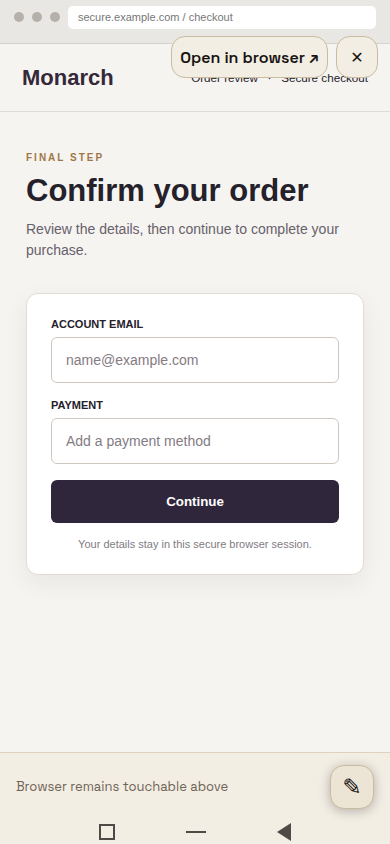
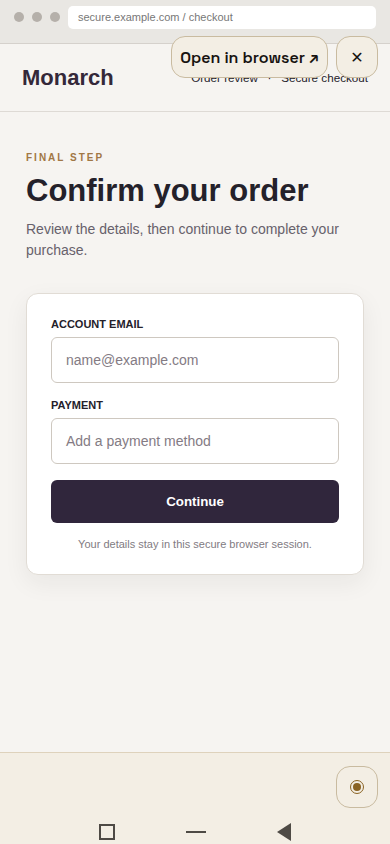
Redraw viewer conversation as expanding attention pill

Changed region(s): [[0.0308, 0.9242, 0.5846, 0.955], [0.8308, 0.8934, 0.9846, 0.9858]]

diff --git a/.lavish/viewer-composer/frame.tsx b/.lavish/viewer-composer/frame.tsx
@@ -35,7 +35,6 @@ sheet.textContent = `@font-face{font-family:SpaceGrotesk-Regular;src:url(${regul
 body{background:${theme.bgBase};color:${theme.textPrimary};font-family:SpaceGrotesk-Regular,sans-serif}
 button{font:inherit;cursor:pointer}.phone{height:100%;display:flex;flex-direction:column;background:${theme.bgBase};position:relative}
 .status{height:24px;flex:none;position:absolute;top:0;left:0;right:0;z-index:5;display:flex;justify-content:space-between;align-items:center;padding:0 16px;color:${theme.textPrimary};font:11px SpaceGrotesk-SemiBold;pointer-events:none}
-.status.computer{color:#716b70}
 .viewer-area{flex:1;min-height:0;position:relative;overflow:hidden}.viewer-area>div:first-child{height:100%}
 .viewer-area .mock-artifact{position:absolute;top:85px;left:0;right:0;bottom:0;background:#f3eee4;color:#171310;overflow:hidden;padding:28px 21px;font-family:SpaceGrotesk-Regular}
 .mock-artifact .eyebrow{font:10px IBMPlexMono-Regular;letter-spacing:2px;color:#8a6323;text-transform:uppercase}
@@ -44,15 +43,19 @@ button{font:inherit;cursor:pointer}.phone{height:100%;display:flex;flex-directio
 .mock-artifact .mock-card b{display:block;font:10px IBMPlexMono-Regular;letter-spacing:1px;text-transform:uppercase;margin:0 0 9px}.mock-artifact .field{height:47px;border:1px solid #c9bba0;border-radius:8px;padding:12px 13px;color:#8b7f6e;margin-bottom:18px;font-size:14px}.mock-artifact .primary{height:45px;border-radius:8px;background:#171310;color:#f3eee4;display:grid;place-items:center;font:16px SpaceGrotesk-SemiBold}.mock-artifact .hint{font:13px/19px SpaceGrotesk-Regular;color:#8b7f6e;text-align:center;margin-top:15px}
 .dock{height:68px;flex:none;position:relative;background:${theme.bgBase};border-top:1px solid ${theme.border};display:flex;align-items:center;justify-content:flex-end;padding:0 16px}
 .nav{height:24px;flex:none;background:${theme.bgBase};display:flex;align-items:center;justify-content:space-around;padding:0 64px}.nav span{width:20px;height:2px;background:${theme.textPrimary};opacity:.75}.nav span:first-child{width:16px;height:16px;border:2px solid ${theme.textPrimary};background:none}.nav span:last-child{width:0;height:0;border-top:9px solid transparent;border-bottom:9px solid transparent;border-right:14px solid ${theme.textPrimary};background:none}
-.summon{width:44px;height:44px;border:1px solid ${theme.borderStrong};border-radius:14px;background:${theme.bgRaised};color:${theme.textPrimary};font:23px SpaceGrotesk-Regular;display:grid;place-items:center;box-shadow:0 2px 12px #0004}.dock-note{margin-right:auto;font:13px SpaceGrotesk-Regular;color:${theme.ledgerQuiet}}
-.shade{position:absolute;inset:0;background:linear-gradient(180deg,transparent 48%,#14091a55 100%);pointer-events:none}
-.composer-sheet{position:absolute;left:0;right:0;bottom:24px;z-index:10;background:${theme.bgBase};border-top:1px solid ${theme.borderStrong};border-radius:16px 16px 0 0;padding:12px 16px 16px;box-shadow:0 -16px 42px #0006}
-.sheet-head{display:flex;align-items:center;justify-content:space-between;color:${theme.ledgerQuiet};font:13px SpaceGrotesk-Regular;margin-bottom:13px}.sheet-head strong{color:${theme.textPrimary};font:13px SpaceGrotesk-SemiBold}.sheet-head button,.transcript-head button{border:0;background:none;color:${theme.ledgerQuiet};font-size:20px;padding:2px 6px}
-.context{display:flex;gap:9px;align-items:center;min-height:42px;border:1px solid ${theme.border};border-radius:10px;background:${theme.bgRaised};padding:7px 10px;margin-bottom:10px;color:${theme.textSecondary};font:13px SpaceGrotesk-Regular}.context .icon{color:${theme.accent};font-size:17px}.context .label{min-width:0;overflow:hidden;text-overflow:ellipsis;white-space:nowrap}.context small{font:10px IBMPlexMono-Regular;color:${theme.ledgerQuiet};display:block;margin-bottom:2px;text-transform:uppercase;letter-spacing:.6px}
-.composer{min-height:44px;border-radius:10px;border:1px solid ${theme.border};background:${theme.bgRaised};display:flex;align-items:center;padding:8px;gap:10px;color:${theme.textPrimary};font:16px SpaceGrotesk-Regular}.composer .plus{font-size:25px;line-height:26px}.composer .entry{flex:1;line-height:26px}.composer .mic{width:26px;height:26px;display:grid;place-items:center;font-size:22px}.composer .send{width:26px;height:26px;display:grid;place-items:center;font-size:22px}
-.sheet-footer{font:11px IBMPlexMono-Regular;color:${theme.ledgerQuiet};margin-top:10px}.ticker{position:absolute;left:16px;right:16px;bottom:93px;z-index:8;padding:10px 13px;border:1px solid #f0f0f322;border-radius:12px;background:#190e2190;backdrop-filter:blur(8px);color:${theme.textPrimary};box-shadow:0 8px 28px #0002}.ticker .byline{font:11px IBMPlexMono-Regular;color:${theme.ledgerQuiet};margin-bottom:4px}.ticker .reply{font:13px/19px SpaceGrotesk-Regular;opacity:.88}.ticker .expand{font:11px IBMPlexMono-Regular;color:${theme.accent};margin-top:5px}
-.transcript-sheet{position:absolute;left:0;right:0;bottom:24px;height:350px;z-index:10;background:${theme.bgBase};border-top:1px solid ${theme.borderStrong};border-radius:16px 16px 0 0;padding:16px 18px;box-shadow:0 -16px 42px #0007}.transcript-head{display:flex;align-items:center;justify-content:space-between;border-bottom:1px solid ${theme.border};padding-bottom:12px;font:16px SpaceGrotesk-SemiBold}.msg{margin-top:16px;font:14px/21px SpaceGrotesk-Regular}.msg .who{font:11px IBMPlexMono-Regular;color:${theme.ledgerQuiet};margin-bottom:5px}.msg p{margin:0}.sent-context{display:flex;gap:8px;align-items:center;margin-top:8px;color:${theme.ledgerQuiet};border:1px solid ${theme.border};border-radius:8px;width:max-content;max-width:100%;padding:5px 8px;font:11px IBMPlexMono-Regular}.sent-context .thumb{width:23px;height:21px;background:#f3eee4;border-radius:3px;border:1px solid #c9bba0}.sent-context .thumb.computer{background:#f3eee4 url('/computer-idle.png') center top / cover}.transcript-compose{position:absolute;bottom:14px;left:16px;right:16px;color:${theme.ledgerQuiet};font:13px SpaceGrotesk-Regular;border:1px solid ${theme.border};border-radius:10px;padding:11px}
-.desktop{height:100%;display:flex}.rail{width:70px;border-right:1px solid ${theme.border};padding:18px;color:${theme.accent};font-size:28px}.rooms{width:260px;border-right:1px solid ${theme.border};padding:24px 18px}.rooms .word{font:24px SpaceGrotesk-SemiBold;margin-bottom:30px}.room-item{background:${theme.bgRaised};border-radius:11px;padding:13px;margin-bottom:8px;font-size:14px}.room-main{flex:1;min-width:0;border-right:1px solid ${theme.border};padding:26px 24px}.room-main h2{font:22px SpaceGrotesk-SemiBold;border-bottom:1px solid ${theme.border};padding-bottom:20px;margin:0}.room-main .body{max-width:520px;margin:38px auto;font:16px/23px SpaceGrotesk-Regular}.room-main .agent{font:13px SpaceGrotesk-Regular;color:${theme.ledgerQuiet};margin-bottom:8px}.desktop-pane{width:400px;display:flex;flex-direction:column;position:relative}.pane-head{height:55px;padding:17px 18px;border-bottom:1px solid ${theme.border};font:15px SpaceGrotesk-SemiBold}.desktop-pane .viewer-area{height:calc(100% - 123px);flex:none}.desktop-pane .dock{height:68px}.desktop-pane .composer-sheet{bottom:0}.desktop-pane .ticker{bottom:78px}
+.desktop{height:100%;display:flex}.rail{width:70px;border-right:1px solid ${theme.border};padding:18px;color:${theme.accent};font-size:28px}.rooms{width:260px;border-right:1px solid ${theme.border};padding:24px 18px}.rooms .word{font:24px SpaceGrotesk-SemiBold;margin-bottom:30px}.room-item{background:${theme.bgRaised};border-radius:11px;padding:13px;margin-bottom:8px;font-size:14px}.room-main{flex:1;min-width:0;border-right:1px solid ${theme.border};padding:26px 24px}.room-main h2{font:22px SpaceGrotesk-SemiBold;border-bottom:1px solid ${theme.border};padding-bottom:20px;margin:0}.room-main .body{max-width:520px;margin:38px auto;font:16px/23px SpaceGrotesk-Regular}.room-main .agent{font:13px SpaceGrotesk-Regular;color:${theme.ledgerQuiet};margin-bottom:8px}.desktop-pane{width:400px;display:flex;flex-direction:column;position:relative}.pane-head{height:55px;padding:17px 18px;border-bottom:1px solid ${theme.border};font:15px SpaceGrotesk-SemiBold}.desktop-pane .viewer-area{height:calc(100% - 123px);flex:none}.desktop-pane .dock{height:68px}
+/* The 42 × 42 viewer control becomes the left cap of one composer pill. */
+.v2-dock{justify-content:flex-end;padding:0 12px;border-top:1px solid ${theme.border}}
+.attention-button{width:42px;height:42px;flex:none;border:1px solid ${theme.borderStrong};border-radius:14px;background:${theme.bgBase};display:grid;place-items:center;color:${theme.accent};padding:0}
+.attention-mark{width:14px;height:14px;border:1px solid ${theme.accent};border-radius:7px;display:grid;place-items:center}.attention-mark span{width:8px;height:8px;border-radius:4px;background:${theme.accent}}
+.expanding-pill{height:44px;width:100%;border:1px solid ${theme.borderStrong};border-radius:22px;background:${theme.bgRaised};display:flex;align-items:center;overflow:hidden;box-shadow:0 2px 12px #0003;transition:width 240ms ease}
+.expanding-pill.partway{width:204px}.expanding-pill .attention-button{border:0;border-right:1px solid ${theme.border};background:transparent;border-radius:0 14px 14px 0}
+.pill-copy{min-width:0;flex:1;border:0;outline:0;background:none;color:${theme.textPrimary};font:16px/23px SpaceGrotesk-Regular;padding:0 11px}.pill-copy::placeholder{color:${theme.ledgerQuiet}}
+.pill-trailing{width:42px;height:42px;border:0;background:transparent;color:${theme.textPrimary};display:grid;place-items:center;font:22px SpaceGrotesk-Regular;padding:0}
+.voice-copy{display:flex;align-items:center;gap:8px;white-space:nowrap;color:${theme.textSecondary};font:13px SpaceGrotesk-Regular}.waveform{color:${theme.accent};font:16px IBMPlexMono-Regular;letter-spacing:-2px}
+.floating-transcript{position:absolute;z-index:8;left:16px;right:16px;bottom:88px;min-height:104px;border:1px solid ${theme.borderStrong};border-radius:12px;background:${new URLSearchParams(location.search).get('theme') === 'bone' ? '#ece4d5db' : '#190e21bf'};backdrop-filter:blur(12px);padding:12px 14px;box-shadow:0 8px 24px #0002}
+.floating-transcript.arriving{opacity:.42;transform:translateY(4px)}.transcript-label{font:11px IBMPlexMono-Regular;color:${theme.ledgerQuiet};margin-bottom:8px}.transcript-line{font:13px/19px SpaceGrotesk-Regular;color:${theme.textPrimary};margin-top:5px}.transcript-line span{font:11px IBMPlexMono-Regular;color:${theme.accent};margin-right:6px}
+.desktop-pane .floating-transcript{bottom:60px}.desktop-pane .v2-dock{height:68px}
 `;
 document.head.appendChild(sheet);
 
@@ -63,27 +66,58 @@ function Viewer() {
     {!isComputer && <div className="mock-artifact"><div className="eyebrow">MONARCH / CHECKOUT</div><h1>Almost there.</h1><p>Review your details and finish your order.</p><div className="mock-card"><b>Contact</b><div className="field">Email address</div><b>Payment</b><div className="field">Card number</div><div className="primary">Continue</div><div className="hint">A calm, secure final step.</div></div></div>}
   </div>;
 }
-function Context({ computer = isComputer }: { computer?: boolean }) {
-  return <div className="context"><span className="icon">{computer ? '▣' : '◇'}</span><span className="label"><small>Looking at now · attached automatically</small>{computer ? 'Checkout · Chrome · screen snapshot' : 'Checkout flow · mock'}</span></div>;
+type DockStage = 'collapsed' | 'expanding' | 'typing' | 'voice' | 'reply' | 'collapsed-again';
+const queryStage = (frame.split('-').slice(1).join('-') || 'collapsed') as DockStage;
+
+/** The mark matches ConversationRow's 14 px needsRing and 8 px brass dot. */
+function AttentionMark() {
+  return <span className="attention-mark"><span /></span>;
 }
-function ComposerSheet() {
-  return <div className="composer-sheet"><div className="sheet-head"><strong>Message Moth</strong><button aria-label="Dismiss composer">×</button></div><Context /><div className="composer"><span className="plus">＋</span><span className="entry">{isComputer ? 'What do I do on this screen?' : 'Message about this mock'}</span>{isComputer ? <span className="send">↑</span> : <span className="mic"><svg width="20" height="20" viewBox="0 0 20 20" fill="none" stroke="currentColor" strokeWidth="1.6" strokeLinecap="round"><rect x="7.5" y="2" width="5" height="9.5" rx="2.5" /><path d="M4.5 9.5a5.5 5.5 0 0 0 11 0" /><path d="M10 15v3" /></svg></span>}</div><div className="sheet-footer">{isComputer ? 'Voice returns when the field is empty' : 'Tap the mic to dictate · send tucks the composer away'}</div></div>;
+
+function RecentTranscript({ stage, computer }: { stage: DockStage; computer: boolean }) {
+  if (stage === 'collapsed' || stage === 'collapsed-again') return null;
+  const reply = stage === 'reply';
+  return <div className={`floating-transcript ${stage === 'expanding' ? 'arriving' : ''}`}>
+    <div className="transcript-label">Recent conversation · Moth</div>
+    {reply ? <>
+      <div className="transcript-line"><span>You</span> {computer ? 'What do I do on this screen?' : 'Could we simplify this step?'}</div>
+      <div className="transcript-line"><span>Moth</span> {computer ? 'Use the test card, then tap Continue. I’ll watch for the next screen.' : 'Yes. I’d collapse payment details until the buyer chooses Continue.'}</div>
+    </> : <div className="transcript-line"><span>Moth</span> {computer ? 'I reached the checkout screen. Ask me about this step.' : 'I’ve opened the checkout mock. Tell me what to change.'}</div>}
+  </div>;
 }
-function Dock() {
-  return <div className="dock"><span className="dock-note">{isComputer ? 'Browser remains touchable above' : 'Viewing artifact'}</span><button className="summon" aria-label="Message agent">✎</button></div>;
+
+function ConversationDock({ stage, computer, onStage }: { stage: DockStage; computer: boolean; onStage: (stage: DockStage) => void }) {
+  const collapsed = stage === 'collapsed' || stage === 'collapsed-again';
+  const voice = stage === 'voice';
+  return <div className="dock v2-dock">
+    {collapsed ? <button className="attention-button" aria-label="Talk to Moth" onClick={() => onStage('expanding')}><AttentionMark /></button> :
+      <div className={`expanding-pill ${stage === 'expanding' ? 'partway' : ''}`}>
+        <button className="attention-button in-pill" aria-label="Collapse conversation" onClick={() => onStage('collapsed-again')}><AttentionMark /></button>
+        {voice ? <div className="pill-copy voice-copy"><span className="waveform">▂ ▅ ▃ ▇ ▄ ▆ ▂</span><span>Listening…</span></div> :
+          <input className="pill-copy" aria-label="Message Moth" placeholder="Ask Moth…" defaultValue={stage === 'typing' ? (computer ? 'What do I do on this screen?' : 'Could we simplify this step?') : ''} onFocus={() => onStage('typing')} />}
+        <button className="pill-trailing" aria-label={voice ? 'Send voice message' : stage === 'typing' ? 'Send message' : 'Start voice message'} onClick={() => onStage(stage === 'typing' || voice ? 'reply' : 'voice')}>
+          {stage === 'typing' || voice ? '↑' : <svg width="20" height="20" viewBox="0 0 20 20" fill="none" stroke="currentColor" strokeWidth="1.6" strokeLinecap="round"><rect x="7.5" y="2" width="5" height="9.5" rx="2.5" /><path d="M4.5 9.5a5.5 5.5 0 0 0 11 0" /><path d="M10 15v3" /></svg>}
+        </button>
+      </div>}
+  </div>;
 }
-function Ticker() {
-  return <div className="ticker"><div className="byline">Moth · just now</div><div className="reply">Use the test card, then tap Continue. I’ll watch for the next screen.</div><div className="expand">Tap to read recent conversation ↑</div></div>;
-}
-function Transcript() {
-  return <div className="transcript-sheet"><div className="transcript-head">Recent conversation <button aria-label="Close transcript">×</button></div><div className="msg"><div className="who">You · 9:42</div><p>{isComputer ? 'What do I do on this screen?' : 'Could we simplify this step?'}</p><div className="sent-context"><span className={`thumb ${isComputer ? 'computer' : ''}`} />{isComputer ? 'Checkout · Chrome · snapshot' : 'Checkout flow · mock'}</div></div><div className="msg"><div className="who">Moth · 9:42</div><p>{isComputer ? 'Use the test card, then tap Continue. I’ll watch for the next screen.' : 'Yes. I’d collapse the payment details until the buyer chooses Continue.'}</p></div><div className="transcript-compose">＋ &nbsp; Message Moth <span style={{ float: 'right' }}>♩</span></div></div>;
-}
+
 function Phone() {
-  return <div className="phone">{!isComputer && <div className="status"><span>9:41</span><span>◆ ▰</span></div>}<Viewer />{frame === 'computer-ticker' && <Ticker />}{frame === 'expanded-transcript' || frame.includes('sent-context') ? <Transcript /> : null}<Dock /><div className="nav"><span /><span /><span /></div>{frame.endsWith('composer') && <><div className="shade" /><ComposerSheet /></>}</div>;
+  const [stage, setStage] = React.useState<DockStage>(queryStage);
+  return <div className="phone">{!isComputer && <div className="status"><span>9:41</span><span>◆ ▰</span></div>}
+    <Viewer /><RecentTranscript stage={stage} computer={isComputer} /><ConversationDock stage={stage} computer={isComputer} onStage={setStage} />
+    <div className="nav"><span /><span /><span /></div>
+  </div>;
 }
+
 function Desktop() {
-  return <div className="desktop"><div className="rail">✦</div><div className="rooms"><div className="word">beeline</div><div className="room-item">⌕ &nbsp; Search</div><div className="room-item">✦ &nbsp; Design Room</div><div className="room-item"># &nbsp; General</div></div><div className="room-main"><h2>Design Room</h2><div className="body"><div className="agent">Moth · agent</div>I reached the sign in step. The browser is ready for you to finish it.</div></div><div className="desktop-pane"><div className="pane-head">Browser</div><Viewer /><Dock /><ComposerSheet /></div></div>;
+  const [stage, setStage] = React.useState<DockStage>(queryStage);
+  return <div className="desktop"><div className="rail">✦</div><div className="rooms"><div className="word">beeline</div><div className="room-item">⌕ &nbsp; Search</div><div className="room-item">✦ &nbsp; Design Room</div><div className="room-item"># &nbsp; General</div></div>
+    <div className="room-main"><h2>Design Room</h2><div className="body"><div className="agent">Moth · agent</div>I reached the sign in step. The browser is ready for you to finish it.</div></div>
+    <div className="desktop-pane"><div className="pane-head">Browser</div><Viewer /><RecentTranscript stage={stage} computer /><ConversationDock stage={stage} computer onStage={setStage} /></div>
+  </div>;
 }
+
 async function main() {
   await Promise.all(['SpaceGrotesk-Regular', 'SpaceGrotesk-Medium', 'SpaceGrotesk-SemiBold', 'IBMPlexMono-Regular'].map((family) => document.fonts.load(`16px ${family}`)));
   createRoot(document.getElementById('root')!).render(desktop ? <Desktop /> : <Phone />);

diff --git a/.lavish/viewer-composer/board.html b/.lavish/viewer-composer/board.html
@@ -3,7 +3,7 @@
 <head>
   <meta charset="utf-8">
   <meta name="viewport" content="width=device-width, initial-scale=1">
-  <title>Beeline viewer composer · approval board</title>
+  <title>Beeline viewer conversation · redesign approval board</title>
   <style>
     @font-face { font-family: SpaceGrotesk; src: url(SpaceGrotesk-Regular.ttf); }
     @font-face { font-family: SpaceGrotesk; src: url(SpaceGrotesk-SemiBold.ttf); font-weight: 600; }
@@ -16,11 +16,11 @@
     .lead { max-width: 950px; color: #c9c9d1; font-size: 16px; line-height: 1.5; margin: 0; }
     .notes { display: flex; flex-wrap: wrap; gap: 10px; margin: 24px 0 34px; }
     .notes span { border: 1px solid #3b3048; border-radius: 8px; padding: 8px 11px; color: #c9c9d1; font-size: 13px; }
-    h2 { font-size: 20px; margin: 34px 0 16px; font-weight: 600; }
+    h2 { font-size: 20px; margin: 38px 0 16px; font-weight: 600; }
     .grid { display: grid; grid-template-columns: repeat(3, minmax(0, 1fr)); gap: 20px; }
     figure { margin: 0; background: #190e21; border: 1px solid #3b3048; border-radius: 14px; padding: 15px; min-width: 0; }
     figure img { display: block; width: 100%; max-width: 390px; height: auto; margin: 0 auto; border: 1px solid #3b3048; }
-    figcaption { margin: 0 0 12px; min-height: 60px; }
+    figcaption { margin: 0 0 12px; min-height: 57px; }
     figcaption strong { display: block; font-size: 16px; margin-bottom: 4px; }
     figcaption span { color: #90909b; font-size: 13px; line-height: 1.4; }
     .wide img { max-width: none; }
@@ -32,29 +32,37 @@
 </head>
 <body>
   <header>
-    <div class="kicker">Decision mock · viewer conversation</div>
-    <h1>Talk to Moth without leaving what you’re viewing</h1>
-    <p class="lead">A 44 px rounded control sits in its own strip above Android’s three-button navigation bar. The regular composer slides up over either viewer, keeping voice available. A sent message carries the artifact title or a browser snapshot. The agent’s latest reply arrives as a quiet temporary ticker; tapping it opens recent conversation.</p>
-    <div class="notes"><span>390 × 844 phone</span><span>1440 × 900 desktop</span><span>Obsidian shell + Bone mock and theme</span><span>Browser taps remain in the stream above the control strip</span></div>
+    <div class="kicker">Decision mock 2 · viewer conversation</div>
+    <h1>One attention button becomes the composer</h1>
+    <p class="lead">A 42 × 42 rounded button sits above Android’s three-button navigation bar, outside the live browser stream. Its mark is the Room list’s brass circle and ring. Tap it and the control travels left as one pill grows leftward. Type or speak to Moth, the agent who owns this view. A translucent recent transcript sits immediately above the pill. Tap the same mark at the pill’s left edge to collapse both.</p>
+    <div class="notes"><span>One button, one pill</span><span>No separate sheet header</span><span>Artifact or screen context attaches silently</span><span>390 × 844 phone + 400 px desktop work pane</span></div>
   </header>
   <main>
-    <h2>Entry and compose</h2>
+    <h2>Artifact viewer · phone</h2>
     <section class="grid">
-      <figure><figcaption><strong>1 · Artifact, idle</strong><span>Viewer stays full screen; the only new control is at bottom right.</span></figcaption><img src="artifact-idle.png" alt="Artifact viewer with small message control above Android navigation"></figure>
-      <figure><figcaption><strong>2 · Artifact, composer open</strong><span>Same artifact remains visible. Context is attached automatically; the empty field shows the voice control.</span></figcaption><img src="artifact-composer.png" alt="Composer over a checkout mock with artifact context chip and microphone"></figure>
-      <figure><figcaption><strong>3 · Live computer session, idle</strong><span>The button lives below the browser iframe, so page taps keep their take-over behavior.</span></figcaption><img src="computer-idle.png" alt="Live computer viewer with browser page and message control outside stream"></figure>
-      <figure><figcaption><strong>4 · Live computer session, composer open</strong><span>The current screen snapshot is attached. A typed question swaps the mic for send.</span></figcaption><img src="computer-composer.png" alt="Composer over live browser with automatic screen snapshot context"></figure>
-      <figure><figcaption><strong>5 · Bone theme</strong><span>The viewer controls and dock use Bone tokens with the same placement.</span></figcaption><img src="computer-bone.png" alt="Live browser viewer in Bone theme"></figure>
+      <figure><figcaption><strong>1 · Collapsed</strong><span>Only the gold attention mark remains.</span></figcaption><img src="artifact-collapsed.png" alt="Artifact viewer with one gold attention button above navigation"></figure>
+      <figure><figcaption><strong>2 · Expanding</strong><span>The button moves to the left edge while the pill grows from the right.</span></figcaption><img src="artifact-expanding.png" alt="Artifact composer pill midway through leftward expansion"></figure>
+      <figure><figcaption><strong>3 · Expanded, typing</strong><span>Text goes to Moth; the current artifact is attached without a visible chip.</span></figcaption><img src="artifact-typing.png" alt="Expanded artifact composer with typed feedback"></figure>
+      <figure><figcaption><strong>4 · Expanded, voice</strong><span>The same pill holds the dictation waveform and send control.</span></figcaption><img src="artifact-voice.png" alt="Expanded artifact composer recording voice"></figure>
+      <figure><figcaption><strong>5 · Agent reply</strong><span>The newest exchange reads above the pill in a translucent transcript.</span></figcaption><img src="artifact-reply.png" alt="Artifact viewer with small reply transcript above composer"></figure>
+      <figure><figcaption><strong>6 · Collapsed again</strong><span>The left glyph collapses pill and transcript back to the single button.</span></figcaption><img src="artifact-collapsed-again.png" alt="Artifact viewer returned to single attention button"></figure>
     </section>
-    <h2>Reply and recent history</h2>
+    <h2>Live computer use · phone</h2>
     <section class="grid">
-      <figure><figcaption><strong>6 · Reply ticker</strong><span>A translucent, compact preview of the latest reply fades after a few seconds; tap to expand.</span></figcaption><img src="computer-ticker.png" alt="Faint reply ticker over the computer viewer"></figure>
-      <figure><figcaption><strong>7 · Expanded recent transcript</strong><span>Recent messages appear as a shallow overlay on the artifact, with the artifact context on the sent message.</span></figcaption><img src="expanded-transcript.png" alt="Recent conversation over the artifact viewer"></figure>
-      <figure><figcaption><strong>8 · Browser context after send</strong><span>The sent message identifies the browser session and keeps a thumbnail of the screen seen at send time.</span></figcaption><img src="computer-sent-context.png" alt="Recent conversation with browser screen snapshot attached to the human message"></figure>
+      <figure><figcaption><strong>1 · Collapsed</strong><span>Browser taps still land in the stream; the button sits below it.</span></figcaption><img src="computer-collapsed.png" alt="Live browser with attention button outside stream"></figure>
+      <figure><figcaption><strong>2 · Expanding</strong><span>Same leftward pill motion while the computer page stays visible.</span></figcaption><img src="computer-expanding.png" alt="Computer composer pill midway through leftward expansion"></figure>
+      <figure><figcaption><strong>3 · Expanded, typing</strong><span>A question to Moth silently carries a snapshot of this browser screen.</span></figcaption><img src="computer-typing.png" alt="Expanded computer composer with typed question"></figure>
+      <figure><figcaption><strong>4 · Expanded, voice</strong><span>Dictation happens in place without leaving the viewer.</span></figcaption><img src="computer-voice.png" alt="Expanded computer composer recording voice"></figure>
+      <figure><figcaption><strong>5 · Agent reply</strong><span>The latest answer sits directly above the expanded pill.</span></figcaption><img src="computer-reply.png" alt="Computer viewer with translucent reply transcript above composer"></figure>
+      <figure><figcaption><strong>6 · Collapsed again</strong><span>Returning to the single control reveals the full browser viewport.</span></figcaption><img src="computer-collapsed-again.png" alt="Computer viewer returned to single attention button"></figure>
     </section>
-    <h2>Desktop work pane</h2>
-    <section class="grid"><figure class="wide" style="grid-column: 1 / -1"><figcaption><strong>9 · Browser pane, composer open</strong><span>The same action lives inside the 400 px work pane; the Room transcript stays in place.</span></figcaption><img src="desktop-composer.png" alt="Desktop Beeline Room with live browser work pane and composer"></figure></section>
-    <p class="provenance">The screenshots render the current <code>ArtifactViewerScreen</code> and <code>ComputerSessionViewer</code> from app source through React Native Web, with the app’s Space Grotesk and IBM Plex Mono fonts. The overlay controls and sample artifact/browser pages are visual fixtures for approval. Rebuild with <code>node .lavish/viewer-composer/build.mjs</code>, serve this directory, and capture <code>frame.html?frame=…</code>. Implementation begins after approval and after the parallel computer-use viewer change lands.</p>
+    <h2>Desktop work pane and Bone theme</h2>
+    <section class="grid">
+      <figure class="wide" style="grid-column: 1 / -1"><figcaption><strong>Desktop · collapsed</strong><span>One control at the bottom of the 400 px work pane.</span></figcaption><img src="desktop-collapsed.png" alt="Desktop browser work pane with one attention button"></figure>
+      <figure><figcaption><strong>Bone · collapsed</strong><span>The same control inherits Bone colors and preserves the touch boundary.</span></figcaption><img src="computer-bone.png" alt="Bone themed computer viewer with gold attention control"></figure>
+      <figure class="wide" style="grid-column: 1 / -1"><figcaption><strong>Desktop · reply</strong><span>Expanded pill and recent transcript occupy only the browser pane.</span></figcaption><img src="desktop-reply.png" alt="Desktop Beeline Room with browser work pane, composer pill and reply transcript"></figure>
+    </section>
+    <p class="provenance">The frame harness renders the current <code>ArtifactViewerScreen</code> and <code>ComputerSessionViewer</code> from app source through React Native Web, with the app’s Space Grotesk and IBM Plex Mono fonts. The attention mark copies <code>ConversationRow</code>’s 14 px ring and 8 px brass dot exactly; implementation will extract that treatment for reuse after approval. The pill, transcript and sample artifact/browser pages are visual fixtures. Rebuild with <code>node .lavish/viewer-composer/build.mjs</code> and serve this directory. Production implementation waits for approval and the parallel computer-use viewer change.</p>
   </main>
 </body>
 </html>
